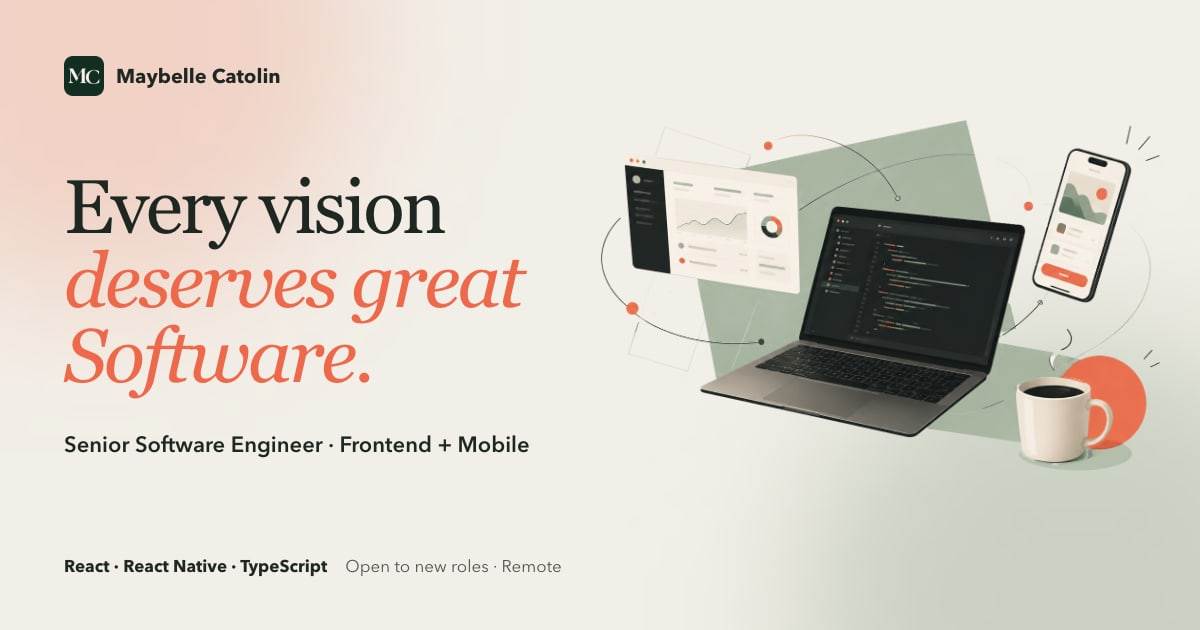
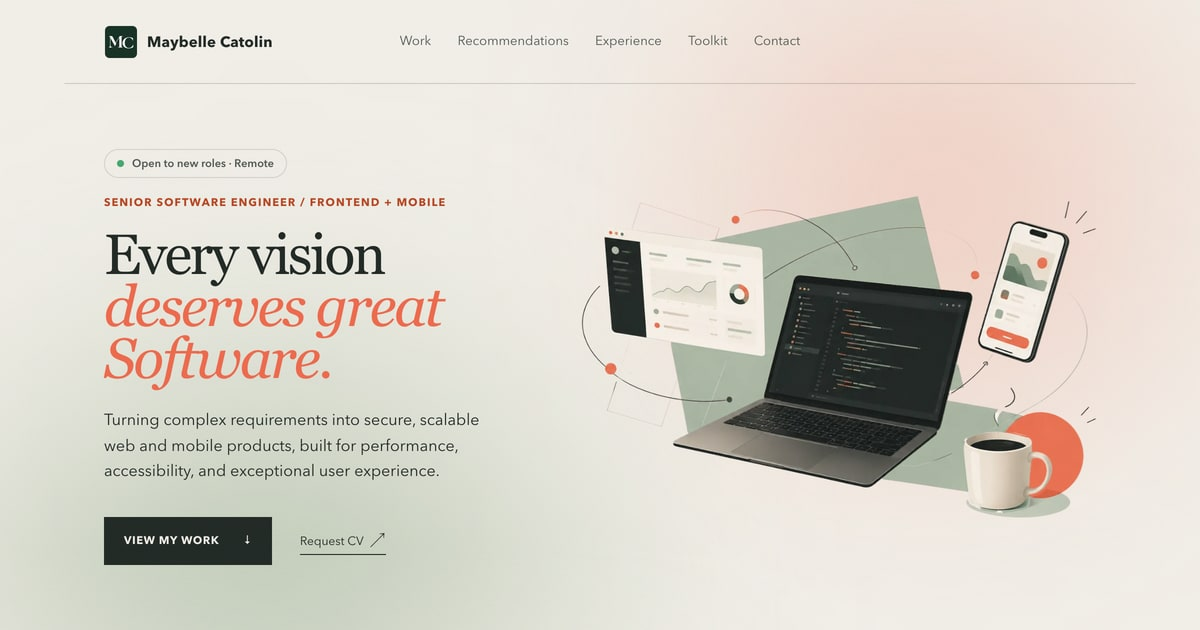
feature: Hero screenshot as home preview image and new site description
- Home social preview is now a 1200x630 screenshot of the live hero
- npm run og captures it from a running copy of the site
- Update meta, Open Graph and structured-data description

diff --git a/features/portfolio/site.ts b/features/portfolio/site.ts
@@ -29,7 +29,7 @@ export const site = {
   jobTitle: "Senior Software Engineer",
   title: "Maybelle Catolin | Senior Software Engineer, Frontend + Mobile",
   description:
-    "Senior software engineer building secure, accessible web and mobile products with React, React Native and TypeScript, from digital identity and banking to insurance and sports tech.",
+    "Senior Software Engineer with 8+ years of experience designing and building enterprise web and mobile applications across digital identity, financial services, banking, insurance, security, and sports technology.",
   keywords: [
     "Maybelle Catolin",
     "Senior Software Engineer",

diff --git a/README.md b/README.md
@@ -31,7 +31,7 @@ Open [http://localhost:3000](http://localhost:3000).
 | `npm run build` | Create the production build (type-checks and prerenders every page) |
 | `npm run start` | Serve the production build                                          |
 | `npm run lint`  | Run ESLint                                                          |
-| `npm run og`    | Regenerate the social preview images in `public/og/` (needs Chrome) |
+| `npm run og`    | Regenerate the social preview images in `public/og/` (needs Chrome and the site running, see below) |
 
 ## Project structure
 
@@ -67,7 +67,11 @@ Components are server components by default. Only the pieces that need the brows
   - `summary` (Work list) and `tagline` (case study subtitle)
   - `images`: files in `public/projects/<slug>/`, numbered from `01.webp`. Use `fit: "contain"` (and optionally `background`) for portrait phone screens.
   - Optional `link` (website), `stores` (App Store / Google Play badges), `socials` (Instagram / Facebook) and `disclaimer` (shown for work under NDA, on the case study and in the Work list).
-- **After changing a project's name, industry, tagline or first slide**, run `npm run og` so its social preview matches.
+- **After changing the hero, or a project's name, industry, tagline or first slide**, regenerate the social previews. The home preview is a screenshot of the live hero, so start the site first:
+  ```bash
+  npm run build && npm run start   # terminal 1
+  npm run og                       # terminal 2
+  ```
 - **Replacing an image with the same file name while `npm run dev` is running**: delete `.next/cache/images`, then hard-refresh, or you'll keep seeing the cached version.
 
 Screens for projects under NDA are illustrative mockups, labelled as such on the image, in the caption and in a disclaimer.
@@ -75,7 +79,7 @@ Screens for projects under NDA are illustrative mockups, labelled as such on the
 ## SEO and sharing
 
 - Titles use a template (`<page> | Maybelle Catolin`), with a unique description and canonical URL per page.
-- Open Graph and Twitter card tags on every page, with a 1200×630 preview image per page.
+- Open Graph and Twitter card tags on every page, with a 1200×630 preview image per page (the home page uses a screenshot of the hero).
 - JSON-LD structured data: `WebSite` and `Person` on the home page, `CreativeWork` and `BreadcrumbList` on each case study.
 - `sitemap.xml` (with image entries) and `robots.txt` are generated at build time.
 - The 404 page is excluded from indexing.
